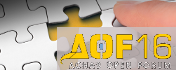
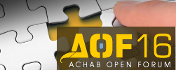
graphic fixing

diff --git a/css/index.css b/css/index.css
@@ -63,6 +63,8 @@
     font-size: 24px;
     padding-top: 24px;
     padding-bottom: 0px;
+    padding-right: 5%;
+    padding-left: 90%;
     font-family: Roboto, Helvetica, Arial, sans-serif;	
 }
 
